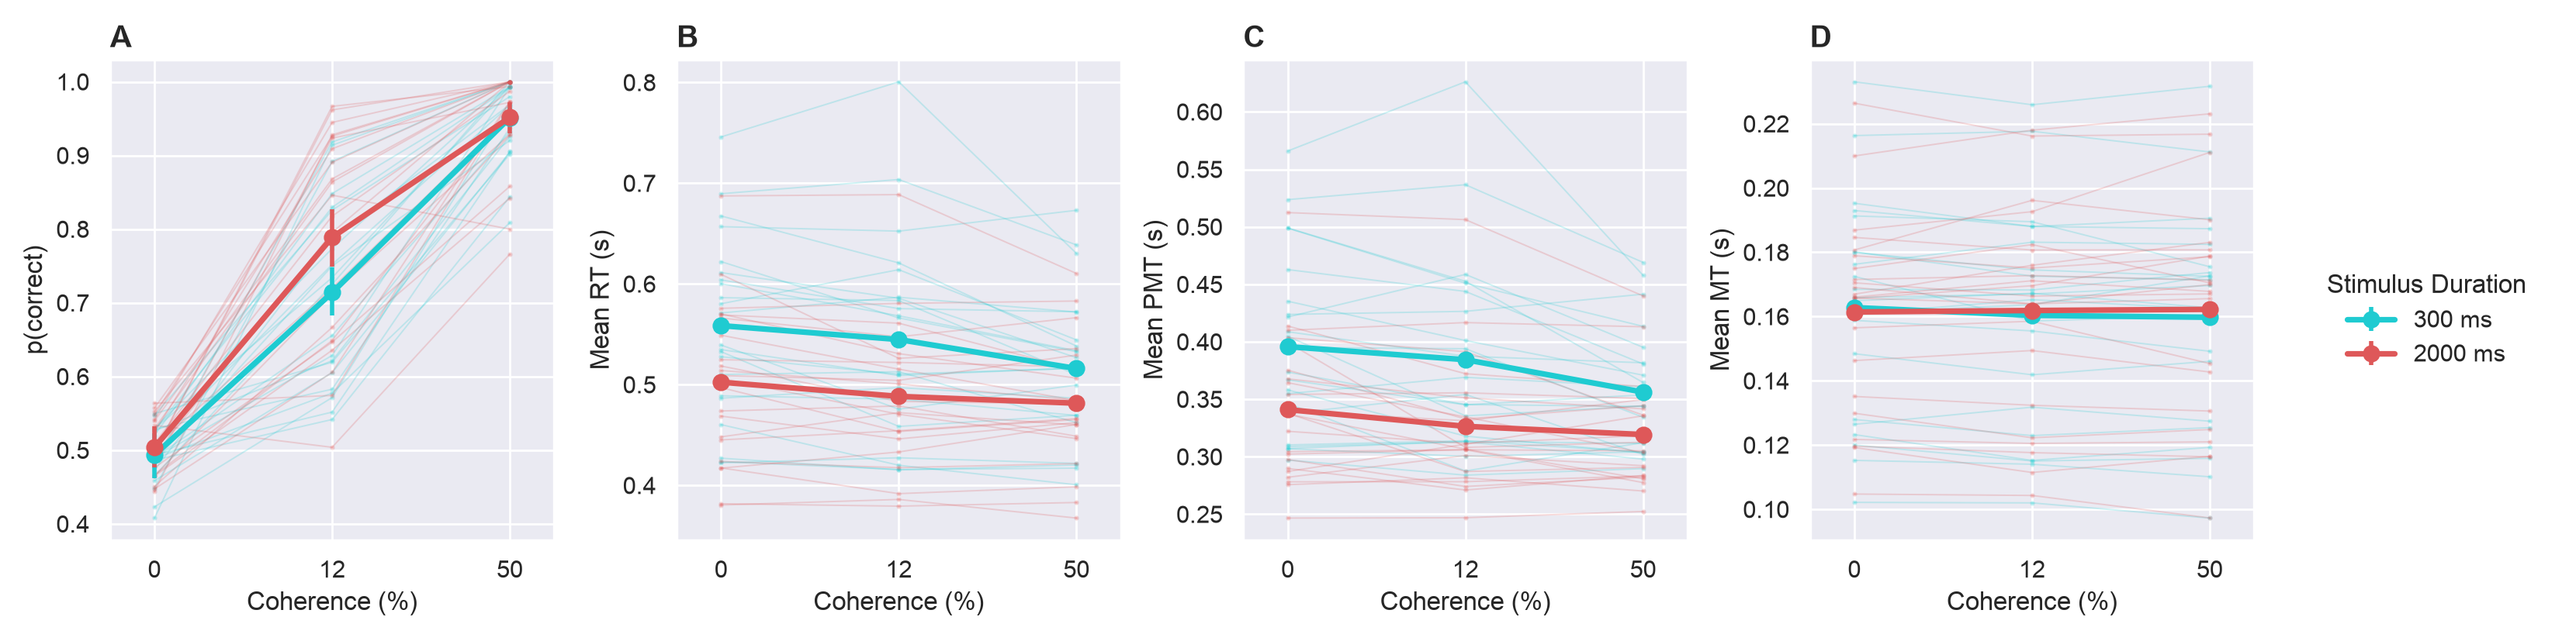
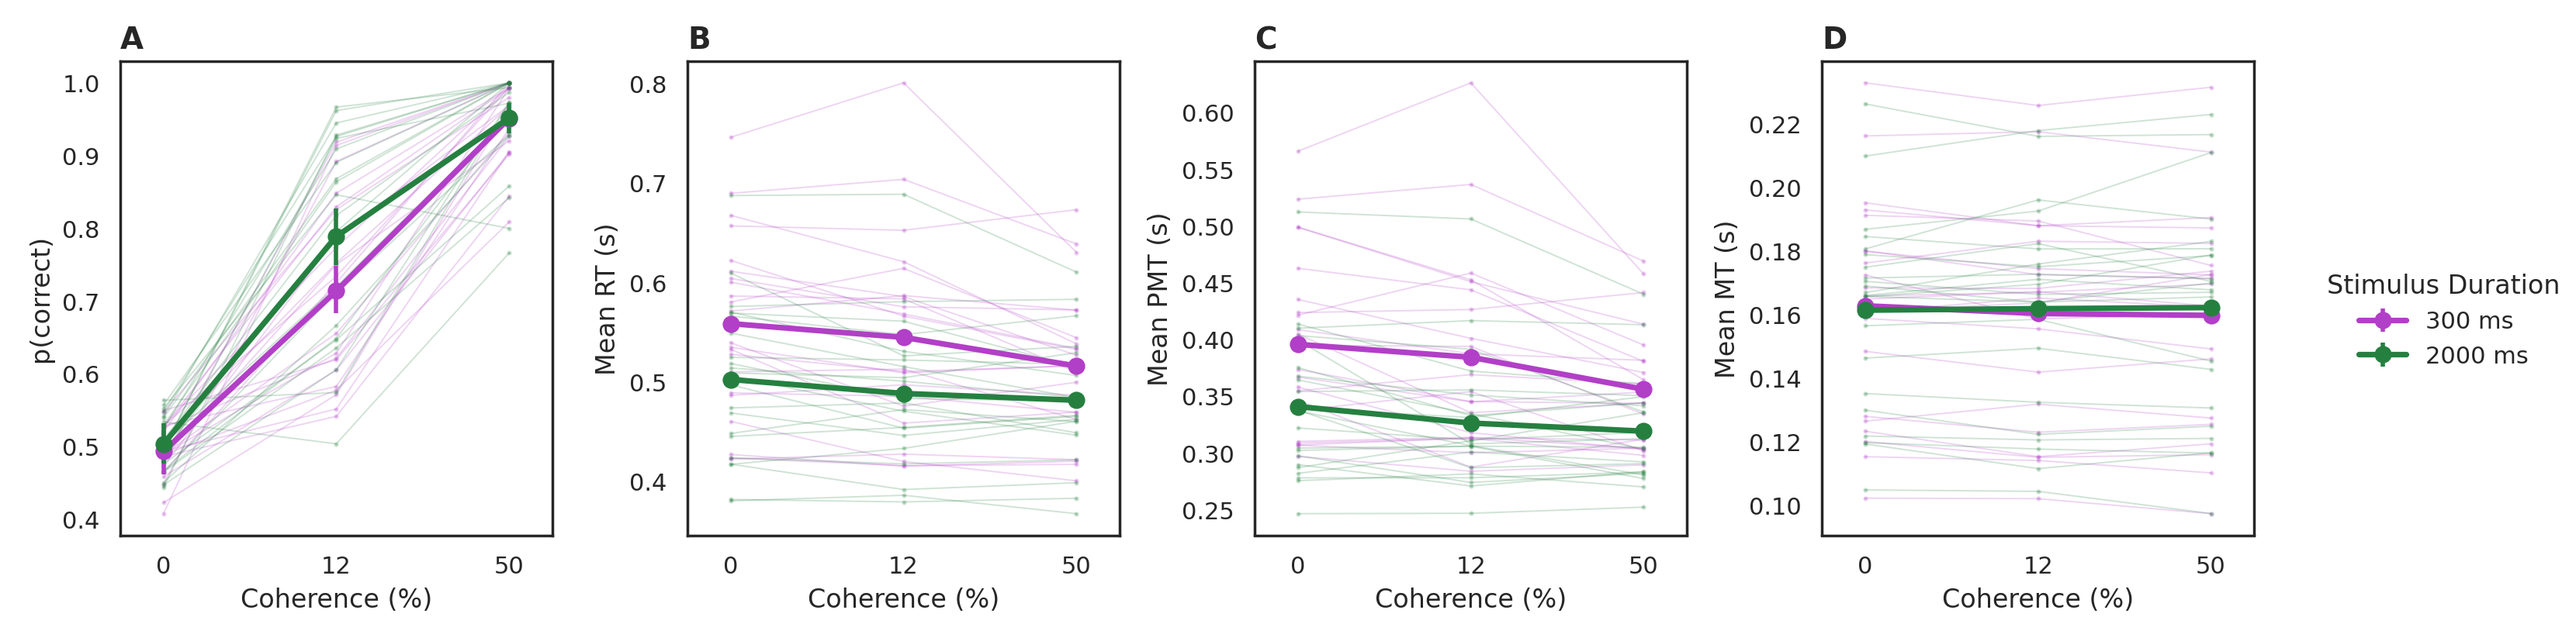
Fig. 3: durations in purple (0.3 s) and green (2 s), white background
- scripts/fig_behavior.py: colours and seaborn style.
- figures/fig05.png regenerated.

Claude-Session: https://claude.ai/code/session_01RY8xm1TW7BgWjo5wS6uJXh

diff --git a/scripts/fig_behavior.py b/scripts/fig_behavior.py
@@ -11,8 +11,8 @@ D = os.path.join(os.environ.get('DELAY_DATA',
                  os.path.expanduser('~/thib/projects/delay/data/86cbw-osfstorage-archive')),
                  'analysis_behavioral_emg') + '/'
 COH = [0,12,50]; DUR = [300,2000]
-COL = {300:'#1FCBD1', 2000:'#DE5859'}
-sns.set_theme(style='darkgrid')
+COL = {300:'#B23FC7', 2000:'#258040'}
+sns.set_theme(style='white')
 plt.rcParams.update({'font.size':11,'axes.labelsize':12,'xtick.labelsize':11,'ytick.labelsize':11})
 
 def load(name, pref):
